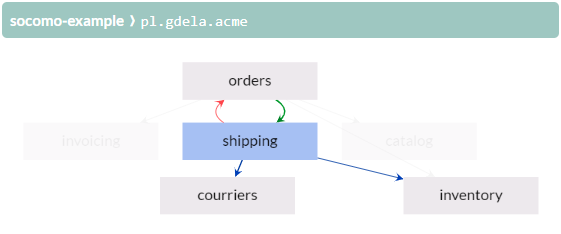
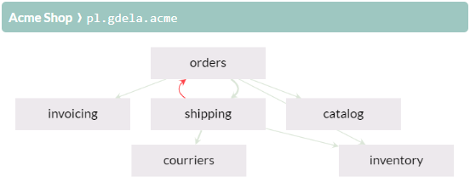
New screenshots with new colors.

diff --git a/readme.md b/readme.md
@@ -19,7 +19,7 @@ This will generate the `socomo.html` file and open it in the browser, where you'
 the visualization of code structure. Here's an example for Guava project:
 
 <p align="center">
-  <img src="example.gif" alt="Composition of Guava viewed in Socomo">
+  <img src="example-guava.gif" alt="Composition of Guava viewed in Socomo">
 </p>
 
 To track changes to the composition commit the `socomo.html` file to your source code repository
@@ -27,22 +27,22 @@ and add [socomo-maven plugin](#maven-plugin) to your `pom.xml`. Whenever composi
 the build plugin will update this human-readable file, so you'll have a history of changes
 in the most convenient place - in your source code repository.
 
-## How to Read the Diagram
-
-<p align="center">
-  <img src="example-acme.png" alt="Composition of sample e-commerce project">
-</p>
+## How to Read Diagrams
 
 The diagram shows composition of your code at some specific level, typically the topmost package
-of the project. Each sub-package at this level is a component represented as node in the diagram.
+of the project. Each subpackage at this level is a component represented as node in the diagram.
 Components are arranged on the diagram to form layers: a component uses other components that are
 below it, and is used by components that are above it.
 
 The actual dependencies analyzed from the bytecode are represented as edges. The wider the edge,
 the stronger is the dependency between components.
 
+<p align="center">
+  <img src="example-acme.png" alt="Composition of sample e-commerce project">
+</p>
+
 When you select a component, blue edges show outgoing dependencies pointing to components used
-by the selected one, and green edges show incoming dependencies from the components that use
+by the selected one, and brown edges show incoming dependencies from the components that use
 the selected one. Red edges are dependencies that point upwards, against the layers, and thus
 are the cause of a cyclic dependency between two or more components.
 
@@ -51,7 +51,7 @@ are the cause of a cyclic dependency between two or more components.
 Socomo is an opinionated tool that requires you to structure the code in the right way to be most useful:
 
 1. Make your topmost components speak about the business. They [shouldn't tell which frameworks
-do you use][screaming architecture]. The technical details are more familiar to the developer
+do you use][screaming architecture]. The technical details are more familiar to a developer
 and thus less [important than the business domain][trivial grouping].
 
 2. Keep your dependencies acyclic. If two components depend on each other, you cannot understand and
